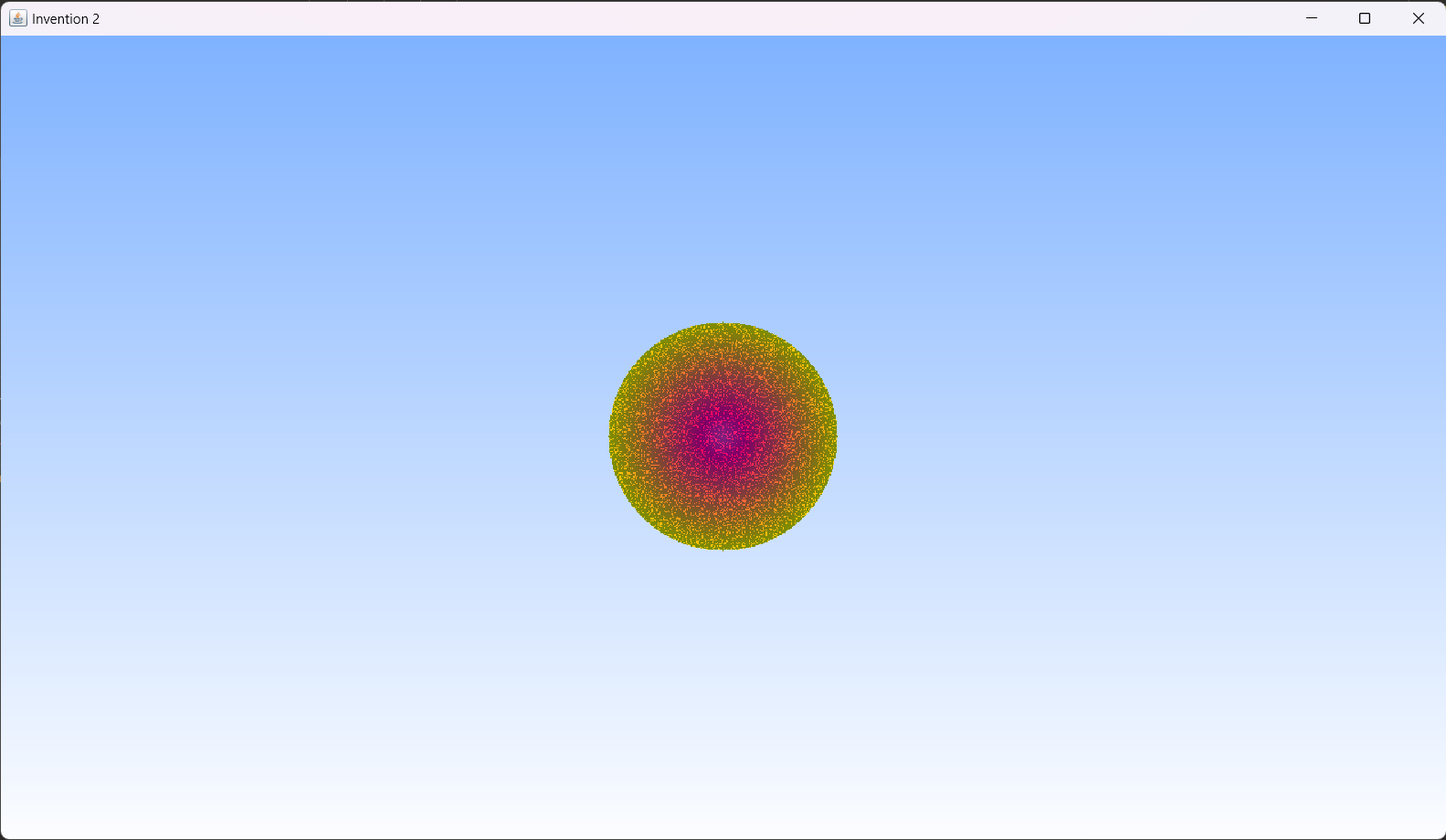
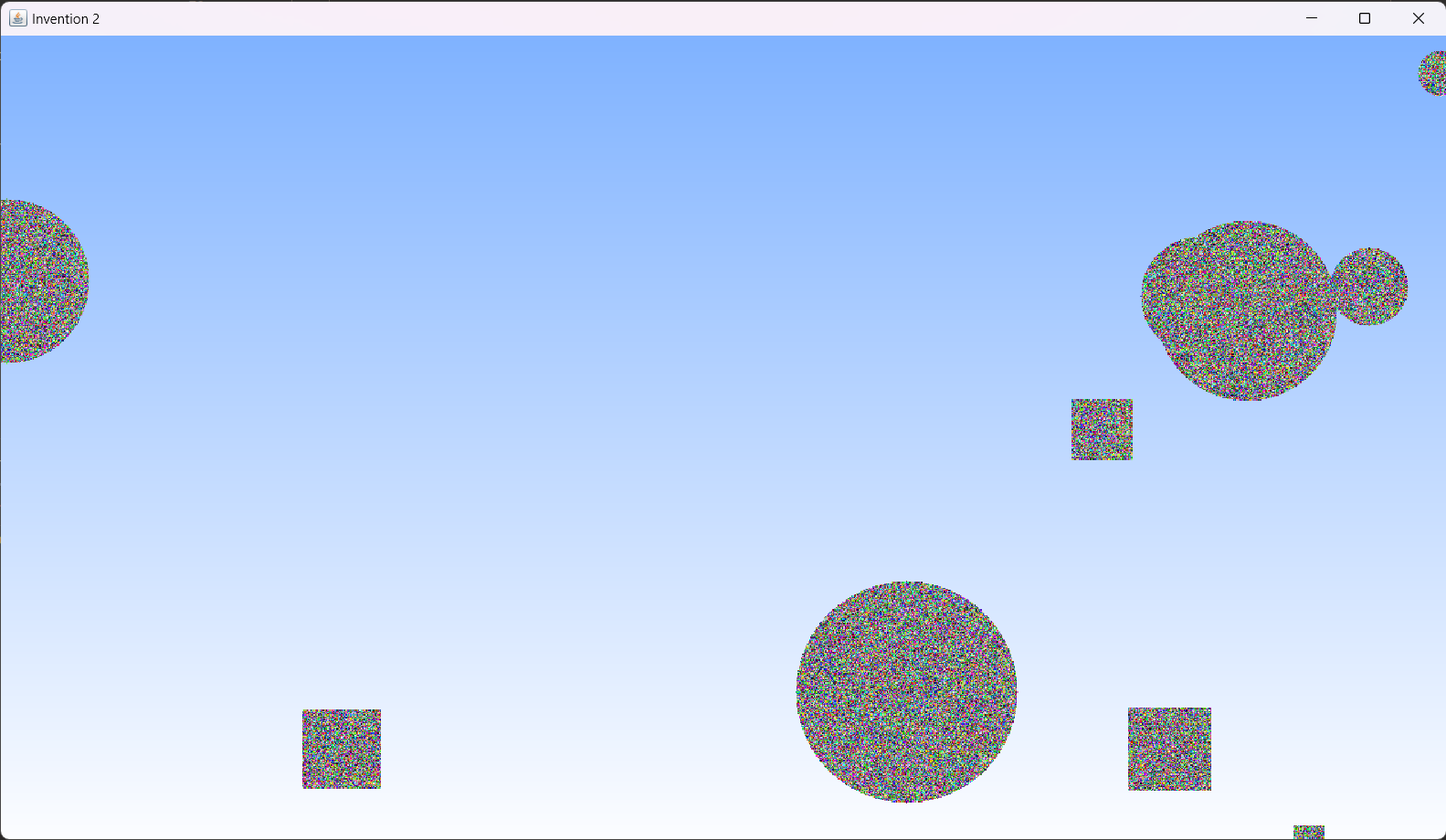
rewrite major portions of invention 2

diff --git a/npw/Invention2.java.html b/npw/Invention2.java.html
@@ -7,9 +7,9 @@
 .s1 { color: #fbf1c7;}
 .s2 { color: #ebdbb2;}
 .s3 { color: #f8e1aa;}
-.s4 { color: #b8bb26;}
-.s5 { color: #d3869b;}
-.s6 { color: #928374; font-style: italic;}
+.s4 { color: #d3869b;}
+.s5 { color: #928374; font-style: italic;}
+.s6 { color: #b8bb26;}
 .ln { color: #928374; font-weight: normal; font-style: normal; }
 </style>
 </head>
@@ -22,84 +22,128 @@ Invention2.java</font>
 <pre><a name="l1"><span class="ln">1    </span></a><span class="s0">package </span><span class="s1">npw</span><span class="s2">;</span>
 <a name="l2"><span class="ln">2    </span></a>
 <a name="l3"><span class="ln">3    </span></a><span class="s0">import </span><span class="s1">painter</span><span class="s2">.</span><span class="s1">SPainter</span><span class="s2">;</span>
-<a name="l4"><span class="ln">4    </span></a><span class="s0">import </span><span class="s1">shapes</span><span class="s2">.</span><span class="s1">SCircle</span><span class="s2">;</span>
-<a name="l5"><span class="ln">5    </span></a><span class="s0">import </span><span class="s1">shapes</span><span class="s2">.</span><span class="s1">SSquare</span><span class="s2">;</span>
-<a name="l6"><span class="ln">6    </span></a>
-<a name="l7"><span class="ln">7    </span></a><span class="s0">import </span><span class="s1">javax</span><span class="s2">.</span><span class="s1">swing</span><span class="s2">.*;</span>
-<a name="l8"><span class="ln">8    </span></a><span class="s0">import </span><span class="s1">java</span><span class="s2">.</span><span class="s1">awt</span><span class="s2">.*;</span>
-<a name="l9"><span class="ln">9    </span></a><span class="s0">import </span><span class="s1">java</span><span class="s2">.</span><span class="s1">awt</span><span class="s2">.</span><span class="s1">geom</span><span class="s2">.</span><span class="s1">Point2D</span><span class="s2">;</span>
-<a name="l10"><span class="ln">10   </span></a><span class="s0">import </span><span class="s1">java</span><span class="s2">.</span><span class="s1">util</span><span class="s2">.</span><span class="s1">Scanner</span><span class="s2">;</span>
-<a name="l11"><span class="ln">11   </span></a>
-<a name="l12"><span class="ln">12   </span></a><span class="s0">public class </span><span class="s1">Invention2 </span><span class="s3">{</span>
-<a name="l13"><span class="ln">13   </span></a>    <span class="s0">private void </span><span class="s1">paint</span><span class="s3">() {</span>
-<a name="l14"><span class="ln">14   </span></a>        <span class="s0">int </span><span class="s1">canvasWidth </span><span class="s2">= </span><span class="s1">getNumber</span><span class="s3">(</span><span class="s4">&quot;Canvas width&quot;</span><span class="s3">)</span><span class="s2">;</span>
-<a name="l15"><span class="ln">15   </span></a>        <span class="s0">int </span><span class="s1">canvasHeight </span><span class="s2">= </span><span class="s1">getNumber</span><span class="s3">(</span><span class="s4">&quot;Canvas height&quot;</span><span class="s3">)</span><span class="s2">;</span>
-<a name="l16"><span class="ln">16   </span></a>
-<a name="l17"><span class="ln">17   </span></a>        <span class="s1">SPainter p </span><span class="s2">= </span><span class="s0">new </span><span class="s1">SPainter</span><span class="s3">(</span><span class="s4">&quot;Invention 2&quot;</span><span class="s2">, </span><span class="s1">canvasWidth</span><span class="s2">, </span><span class="s1">canvasHeight</span><span class="s3">)</span><span class="s2">;</span>
-<a name="l18"><span class="ln">18   </span></a>        <span class="s1">SCircle invisibleCircle </span><span class="s2">= </span><span class="s0">new </span><span class="s1">SCircle</span><span class="s3">(</span><span class="s5">100</span><span class="s3">)</span><span class="s2">;</span>
-<a name="l19"><span class="ln">19   </span></a>        <span class="s1">SSquare sq </span><span class="s2">= </span><span class="s0">new </span><span class="s1">SSquare</span><span class="s3">(</span><span class="s5">1</span><span class="s3">)</span><span class="s2">;</span>
-<a name="l20"><span class="ln">20   </span></a>
-<a name="l21"><span class="ln">21   </span></a>        <span class="s0">int </span><span class="s1">i </span><span class="s2">= </span><span class="s5">0</span><span class="s2">; </span><span class="s6">// v</span>
-<a name="l22"><span class="ln">22   </span></a>        <span class="s0">int </span><span class="s1">j </span><span class="s2">= </span><span class="s5">0</span><span class="s2">; </span><span class="s6">// h</span>
-<a name="l23"><span class="ln">23   </span></a>        <span class="s0">while </span><span class="s3">(</span><span class="s1">i </span><span class="s2">&lt; </span><span class="s1">canvasHeight </span><span class="s2">+ </span><span class="s5">1</span><span class="s3">) {</span>
-<a name="l24"><span class="ln">24   </span></a>            <span class="s0">while </span><span class="s3">(</span><span class="s1">j </span><span class="s2">&lt; </span><span class="s1">canvasWidth </span><span class="s2">+ </span><span class="s5">1</span><span class="s3">) {</span>
-<a name="l25"><span class="ln">25   </span></a>                <span class="s1">Point2D</span><span class="s2">.</span><span class="s1">Double pt </span><span class="s2">= </span><span class="s0">new </span><span class="s1">Point2D</span><span class="s2">.</span><span class="s1">Double</span><span class="s3">(</span><span class="s1">j </span><span class="s2">+ </span><span class="s5">1</span><span class="s2">, </span><span class="s1">i </span><span class="s2">+ </span><span class="s5">1</span><span class="s3">)</span><span class="s2">;</span>
-<a name="l26"><span class="ln">26   </span></a>                <span class="s1">p</span><span class="s2">.</span><span class="s1">setPosition</span><span class="s3">(</span><span class="s1">pt</span><span class="s3">)</span><span class="s2">;</span>
-<a name="l27"><span class="ln">27   </span></a>                <span class="s1">p</span><span class="s2">.</span><span class="s1">setColor</span><span class="s3">(</span><span class="s1">blendedSkyColor</span><span class="s3">((</span><span class="s0">double</span><span class="s3">) (</span><span class="s1">canvasHeight </span><span class="s2">- </span><span class="s1">i</span><span class="s3">) </span><span class="s2">/ </span><span class="s1">canvasHeight</span><span class="s3">))</span><span class="s2">;</span>
-<a name="l28"><span class="ln">28   </span></a>                <span class="s1">p</span><span class="s2">.</span><span class="s1">paint</span><span class="s3">(</span><span class="s1">sq</span><span class="s3">)</span><span class="s2">;</span>
-<a name="l29"><span class="ln">29   </span></a>
-<a name="l30"><span class="ln">30   </span></a>                <span class="s0">if </span><span class="s3">(</span><span class="s1">p</span><span class="s2">.</span><span class="s1">center</span><span class="s3">()</span><span class="s2">.</span><span class="s1">distance</span><span class="s3">(</span><span class="s1">pt</span><span class="s3">) </span><span class="s2">&lt;= </span><span class="s1">invisibleCircle</span><span class="s2">.</span><span class="s1">radius</span><span class="s3">()) {</span>
-<a name="l31"><span class="ln">31   </span></a>                    <span class="s0">int </span><span class="s1">dist </span><span class="s2">= </span><span class="s3">(</span><span class="s0">int</span><span class="s3">) (</span><span class="s5">255 </span><span class="s2">* </span><span class="s3">((</span><span class="s1">invisibleCircle</span><span class="s2">.</span><span class="s1">radius</span><span class="s3">() </span><span class="s2">- </span><span class="s1">p</span><span class="s2">.</span><span class="s1">center</span><span class="s3">()</span><span class="s2">.</span><span class="s1">distance</span><span class="s3">(</span><span class="s1">pt</span><span class="s3">)) </span><span class="s2">* </span><span class="s5">0.01</span><span class="s3">))</span><span class="s2">;</span>
-<a name="l32"><span class="ln">32   </span></a>                    <span class="s1">Color col </span><span class="s2">= </span><span class="s0">new </span><span class="s1">Color</span><span class="s3">(</span><span class="s5">255</span><span class="s2">, </span><span class="s1">Math</span><span class="s2">.</span><span class="s1">abs</span><span class="s3">(</span><span class="s5">255 </span><span class="s2">- </span><span class="s3">(</span><span class="s1">dist </span><span class="s2">+ </span><span class="s5">50</span><span class="s3">))</span><span class="s2">, </span><span class="s1">dist </span><span class="s2">/ </span><span class="s5">2</span><span class="s3">)</span><span class="s2">;</span>
-<a name="l33"><span class="ln">33   </span></a>                    <span class="s1">p</span><span class="s2">.</span><span class="s1">setColor</span><span class="s3">(</span><span class="s1">col</span><span class="s3">)</span><span class="s2">;</span>
-<a name="l34"><span class="ln">34   </span></a>
-<a name="l35"><span class="ln">35   </span></a>                    <span class="s0">if </span><span class="s3">(</span><span class="s1">Math</span><span class="s2">.</span><span class="s1">random</span><span class="s3">() </span><span class="s2">&lt;= </span><span class="s5">0.8</span><span class="s3">) {</span>
-<a name="l36"><span class="ln">36   </span></a>                        <span class="s1">p</span><span class="s2">.</span><span class="s1">setColor</span><span class="s3">(</span><span class="s1">blendWithSky</span><span class="s3">(</span><span class="s1">Math</span><span class="s2">.</span><span class="s1">random</span><span class="s3">()</span><span class="s2">, </span><span class="s1">col</span><span class="s3">))</span><span class="s2">;</span>
-<a name="l37"><span class="ln">37   </span></a>                    <span class="s3">}</span>
-<a name="l38"><span class="ln">38   </span></a>
-<a name="l39"><span class="ln">39   </span></a>                    <span class="s1">p</span><span class="s2">.</span><span class="s1">paint</span><span class="s3">(</span><span class="s1">sq</span><span class="s3">)</span><span class="s2">;</span>
-<a name="l40"><span class="ln">40   </span></a>                <span class="s3">}</span>
-<a name="l41"><span class="ln">41   </span></a>
-<a name="l42"><span class="ln">42   </span></a>                <span class="s1">j</span><span class="s2">++;</span>
-<a name="l43"><span class="ln">43   </span></a>            <span class="s3">}</span>
-<a name="l44"><span class="ln">44   </span></a>            <span class="s1">i</span><span class="s2">++;</span>
-<a name="l45"><span class="ln">45   </span></a>            <span class="s1">j </span><span class="s2">= </span><span class="s5">0</span><span class="s2">;</span>
-<a name="l46"><span class="ln">46   </span></a>        <span class="s3">}</span>
-<a name="l47"><span class="ln">47   </span></a>    <span class="s3">}</span>
-<a name="l48"><span class="ln">48   </span></a>
-<a name="l49"><span class="ln">49   </span></a>    <span class="s0">private </span><span class="s1">Color blendWithSky</span><span class="s3">(</span><span class="s0">double </span><span class="s1">t</span><span class="s2">, </span><span class="s1">Color c</span><span class="s3">) {</span>
-<a name="l50"><span class="ln">50   </span></a>        <span class="s6">// c &lt;- (0.5, 0.7, 1.0)</span>
-<a name="l51"><span class="ln">51   </span></a>        <span class="s0">double </span><span class="s1">r </span><span class="s2">= </span><span class="s1">c</span><span class="s2">.</span><span class="s1">getRed</span><span class="s3">() </span><span class="s2">/ </span><span class="s5">255.0</span><span class="s2">, </span><span class="s1">g </span><span class="s2">= </span><span class="s1">c</span><span class="s2">.</span><span class="s1">getGreen</span><span class="s3">() </span><span class="s2">/ </span><span class="s5">255.0</span><span class="s2">, </span><span class="s1">b </span><span class="s2">= </span><span class="s1">c</span><span class="s2">.</span><span class="s1">getBlue</span><span class="s3">() </span><span class="s2">/ </span><span class="s5">255.0</span><span class="s2">;</span>
-<a name="l52"><span class="ln">52   </span></a>        <span class="s0">double </span><span class="s1">blendedR </span><span class="s2">= </span><span class="s1">r </span><span class="s2">* </span><span class="s5">0.5</span><span class="s2">,</span>
-<a name="l53"><span class="ln">53   </span></a>                <span class="s1">blendedG </span><span class="s2">= </span><span class="s1">g </span><span class="s2">* </span><span class="s5">0.7</span><span class="s2">,</span>
-<a name="l54"><span class="ln">54   </span></a>                <span class="s1">blendedB </span><span class="s2">= </span><span class="s1">b </span><span class="s2">* </span><span class="s5">1.0</span><span class="s2">;</span>
-<a name="l55"><span class="ln">55   </span></a>
-<a name="l56"><span class="ln">56   </span></a>        <span class="s0">return new </span><span class="s1">Color</span><span class="s3">((</span><span class="s0">int</span><span class="s3">)</span><span class="s1">Math</span><span class="s2">.</span><span class="s1">floor</span><span class="s3">(</span><span class="s1">blendedR </span><span class="s2">* </span><span class="s5">255</span><span class="s3">)</span><span class="s2">, </span><span class="s3">(</span><span class="s0">int</span><span class="s3">)</span><span class="s1">Math</span><span class="s2">.</span><span class="s1">floor</span><span class="s3">(</span><span class="s1">blendedG </span><span class="s2">* </span><span class="s5">255</span><span class="s3">)</span><span class="s2">, </span><span class="s3">(</span><span class="s0">int</span><span class="s3">)</span><span class="s1">Math</span><span class="s2">.</span><span class="s1">floor</span><span class="s3">(</span><span class="s1">blendedB </span><span class="s2">* </span><span class="s5">255</span><span class="s3">))</span><span class="s2">;</span>
-<a name="l57"><span class="ln">57   </span></a>    <span class="s3">}</span>
-<a name="l58"><span class="ln">58   </span></a>
-<a name="l59"><span class="ln">59   </span></a>    <span class="s0">private </span><span class="s1">Color blendedSkyColor</span><span class="s3">(</span><span class="s0">double </span><span class="s1">t</span><span class="s3">) {</span>
-<a name="l60"><span class="ln">60   </span></a>        <span class="s6">// (1.0, 1.0, 1.0) &lt;- (0.5, 0.7, 1.0)</span>
-<a name="l61"><span class="ln">61   </span></a>        <span class="s0">double </span><span class="s1">blendedR </span><span class="s2">= </span><span class="s3">(</span><span class="s5">1.0 </span><span class="s2">- </span><span class="s1">t</span><span class="s3">) </span><span class="s2">+ </span><span class="s1">t </span><span class="s2">* </span><span class="s5">0.5</span><span class="s2">,</span>
-<a name="l62"><span class="ln">62   </span></a>                <span class="s1">blendedG </span><span class="s2">= </span><span class="s3">(</span><span class="s5">1.0 </span><span class="s2">- </span><span class="s1">t</span><span class="s3">) </span><span class="s2">+ </span><span class="s1">t </span><span class="s2">* </span><span class="s5">0.7</span><span class="s2">,</span>
-<a name="l63"><span class="ln">63   </span></a>                <span class="s1">blendedB </span><span class="s2">= </span><span class="s3">(</span><span class="s5">1.0 </span><span class="s2">- </span><span class="s1">t</span><span class="s3">) </span><span class="s2">+ </span><span class="s1">t</span><span class="s2">;</span>
-<a name="l64"><span class="ln">64   </span></a>
-<a name="l65"><span class="ln">65   </span></a>        <span class="s0">return new </span><span class="s1">Color</span><span class="s3">((</span><span class="s0">int</span><span class="s3">)</span><span class="s1">Math</span><span class="s2">.</span><span class="s1">floor</span><span class="s3">(</span><span class="s1">blendedR </span><span class="s2">* </span><span class="s5">255</span><span class="s3">)</span><span class="s2">, </span><span class="s3">(</span><span class="s0">int</span><span class="s3">)</span><span class="s1">Math</span><span class="s2">.</span><span class="s1">floor</span><span class="s3">(</span><span class="s1">blendedG </span><span class="s2">* </span><span class="s5">255</span><span class="s3">)</span><span class="s2">, </span><span class="s3">(</span><span class="s0">int</span><span class="s3">)</span><span class="s1">Math</span><span class="s2">.</span><span class="s1">floor</span><span class="s3">(</span><span class="s1">blendedB </span><span class="s2">* </span><span class="s5">255</span><span class="s3">))</span><span class="s2">;</span>
-<a name="l66"><span class="ln">66   </span></a>    <span class="s3">}</span>
-<a name="l67"><span class="ln">67   </span></a>
-<a name="l68"><span class="ln">68   </span></a>    <span class="s0">private static int </span><span class="s1">getNumber</span><span class="s3">(</span><span class="s1">String prompt</span><span class="s3">) {</span>
-<a name="l69"><span class="ln">69   </span></a>        <span class="s1">String nss </span><span class="s2">= </span><span class="s1">JOptionPane</span><span class="s2">.</span><span class="s1">showInputDialog</span><span class="s3">(</span><span class="s0">null</span><span class="s2">, </span><span class="s1">prompt </span><span class="s2">+ </span><span class="s4">&quot;: &quot;</span><span class="s3">)</span><span class="s2">;</span>
-<a name="l70"><span class="ln">70   </span></a>        <span class="s1">Scanner sc </span><span class="s2">= </span><span class="s0">new </span><span class="s1">Scanner</span><span class="s3">(</span><span class="s1">nss</span><span class="s3">)</span><span class="s2">;</span>
-<a name="l71"><span class="ln">71   </span></a>        <span class="s0">return </span><span class="s1">sc</span><span class="s2">.</span><span class="s1">nextInt</span><span class="s3">()</span><span class="s2">;</span>
-<a name="l72"><span class="ln">72   </span></a>    <span class="s3">}</span>
-<a name="l73"><span class="ln">73   </span></a>
-<a name="l74"><span class="ln">74   </span></a>    <span class="s0">public </span><span class="s1">Invention2</span><span class="s3">() {</span>
-<a name="l75"><span class="ln">75   </span></a>        <span class="s1">paint</span><span class="s3">()</span><span class="s2">;</span>
-<a name="l76"><span class="ln">76   </span></a>    <span class="s3">}</span>
-<a name="l77"><span class="ln">77   </span></a>
-<a name="l78"><span class="ln">78   </span></a>    <span class="s0">public static void </span><span class="s1">main</span><span class="s3">(</span><span class="s1">String</span><span class="s3">[] </span><span class="s1">args</span><span class="s3">) {</span>
-<a name="l79"><span class="ln">79   </span></a>        <span class="s1">SwingUtilities</span><span class="s2">.</span><span class="s1">invokeLater</span><span class="s3">(</span><span class="s1">Invention2::</span><span class="s0">new</span><span class="s3">)</span><span class="s2">;</span>
-<a name="l80"><span class="ln">80   </span></a>    <span class="s3">}</span>
-<a name="l81"><span class="ln">81   </span></a><span class="s3">}</span>
-<a name="l82"><span class="ln">82   </span></a></pre>
+<a name="l4"><span class="ln">4    </span></a><span class="s0">import </span><span class="s1">shapes</span><span class="s2">.</span><span class="s1">SRectangle</span><span class="s2">;</span>
+<a name="l5"><span class="ln">5    </span></a>
+<a name="l6"><span class="ln">6    </span></a><span class="s0">import </span><span class="s1">javax</span><span class="s2">.</span><span class="s1">swing</span><span class="s2">.*;</span>
+<a name="l7"><span class="ln">7    </span></a><span class="s0">import </span><span class="s1">java</span><span class="s2">.</span><span class="s1">awt</span><span class="s2">.*;</span>
+<a name="l8"><span class="ln">8    </span></a><span class="s0">import </span><span class="s1">java</span><span class="s2">.</span><span class="s1">awt</span><span class="s2">.</span><span class="s1">geom</span><span class="s2">.</span><span class="s1">Point2D</span><span class="s2">;</span>
+<a name="l9"><span class="ln">9    </span></a><span class="s0">import </span><span class="s1">java</span><span class="s2">.</span><span class="s1">util</span><span class="s2">.</span><span class="s1">Scanner</span><span class="s2">;</span>
+<a name="l10"><span class="ln">10   </span></a>
+<a name="l11"><span class="ln">11   </span></a><span class="s0">enum </span><span class="s1">ShapeType </span><span class="s3">{</span>
+<a name="l12"><span class="ln">12   </span></a>    <span class="s1">Rectangle</span><span class="s2">,</span>
+<a name="l13"><span class="ln">13   </span></a>    <span class="s1">Circle</span><span class="s2">,</span>
+<a name="l14"><span class="ln">14   </span></a><span class="s3">}</span>
+<a name="l15"><span class="ln">15   </span></a>
+<a name="l16"><span class="ln">16   </span></a><span class="s0">class </span><span class="s1">InventionShape </span><span class="s3">{</span>
+<a name="l17"><span class="ln">17   </span></a>    <span class="s0">private final </span><span class="s1">ShapeType shapeType</span><span class="s2">;</span>
+<a name="l18"><span class="ln">18   </span></a>    <span class="s0">private final double </span><span class="s1">x</span><span class="s2">;</span>
+<a name="l19"><span class="ln">19   </span></a>    <span class="s0">private final double </span><span class="s1">y</span><span class="s2">;</span>
+<a name="l20"><span class="ln">20   </span></a>    <span class="s0">private final double </span><span class="s1">px</span><span class="s2">;</span>
+<a name="l21"><span class="ln">21   </span></a>    <span class="s0">private final double </span><span class="s1">py</span><span class="s2">;</span>
+<a name="l22"><span class="ln">22   </span></a>
+<a name="l23"><span class="ln">23   </span></a>    <span class="s0">public </span><span class="s1">InventionShape</span><span class="s3">(</span><span class="s1">ShapeType shapeType</span><span class="s2">, </span><span class="s0">double </span><span class="s1">x</span><span class="s2">, </span><span class="s0">double </span><span class="s1">y</span><span class="s2">, </span><span class="s0">double </span><span class="s1">px</span><span class="s2">, </span><span class="s0">double </span><span class="s1">py</span><span class="s3">) {</span>
+<a name="l24"><span class="ln">24   </span></a>        <span class="s0">this</span><span class="s2">.</span><span class="s1">shapeType </span><span class="s2">= </span><span class="s1">shapeType</span><span class="s2">;</span>
+<a name="l25"><span class="ln">25   </span></a>        <span class="s0">this</span><span class="s2">.</span><span class="s1">x </span><span class="s2">= </span><span class="s1">x</span><span class="s2">;</span>
+<a name="l26"><span class="ln">26   </span></a>        <span class="s0">this</span><span class="s2">.</span><span class="s1">y </span><span class="s2">= </span><span class="s1">y</span><span class="s2">;</span>
+<a name="l27"><span class="ln">27   </span></a>        <span class="s0">this</span><span class="s2">.</span><span class="s1">px </span><span class="s2">= </span><span class="s1">px</span><span class="s2">;</span>
+<a name="l28"><span class="ln">28   </span></a>        <span class="s0">this</span><span class="s2">.</span><span class="s1">py </span><span class="s2">= </span><span class="s1">py</span><span class="s2">;</span>
+<a name="l29"><span class="ln">29   </span></a>    <span class="s3">}</span>
+<a name="l30"><span class="ln">30   </span></a>
+<a name="l31"><span class="ln">31   </span></a>    <span class="s0">public boolean </span><span class="s1">hitsShape</span><span class="s3">(</span><span class="s1">Point2D</span><span class="s2">.</span><span class="s1">Double pt</span><span class="s3">) {</span>
+<a name="l32"><span class="ln">32   </span></a>        <span class="s0">return switch </span><span class="s3">(</span><span class="s1">shapeType</span><span class="s3">) {</span>
+<a name="l33"><span class="ln">33   </span></a>            <span class="s0">case </span><span class="s1">Rectangle -&gt; hitInRectangle</span><span class="s3">(</span><span class="s1">pt</span><span class="s2">, </span><span class="s1">x</span><span class="s2">, </span><span class="s1">y</span><span class="s3">)</span><span class="s2">;</span>
+<a name="l34"><span class="ln">34   </span></a>            <span class="s0">case </span><span class="s1">Circle -&gt; hitInCircle</span><span class="s3">(</span><span class="s1">pt</span><span class="s2">, </span><span class="s1">x</span><span class="s3">)</span><span class="s2">;</span>
+<a name="l35"><span class="ln">35   </span></a>        <span class="s3">}</span><span class="s2">;</span>
+<a name="l36"><span class="ln">36   </span></a>    <span class="s3">}</span>
+<a name="l37"><span class="ln">37   </span></a>
+<a name="l38"><span class="ln">38   </span></a>    <span class="s0">private boolean </span><span class="s1">hitInRectangle</span><span class="s3">(</span><span class="s1">Point2D</span><span class="s2">.</span><span class="s1">Double pt</span><span class="s2">, </span><span class="s0">double </span><span class="s1">width</span><span class="s2">, </span><span class="s0">double </span><span class="s1">height</span><span class="s3">) {</span>
+<a name="l39"><span class="ln">39   </span></a>        <span class="s1">Point2D</span><span class="s2">.</span><span class="s1">Double Q </span><span class="s2">= </span><span class="s0">new </span><span class="s1">Point2D</span><span class="s2">.</span><span class="s1">Double</span><span class="s3">(</span><span class="s1">px </span><span class="s2">- </span><span class="s3">(</span><span class="s1">width </span><span class="s2">/ </span><span class="s4">2</span><span class="s3">)</span><span class="s2">, </span><span class="s1">py </span><span class="s2">- </span><span class="s3">(</span><span class="s1">height </span><span class="s2">/ </span><span class="s4">2</span><span class="s3">))</span><span class="s2">;</span>
+<a name="l40"><span class="ln">40   </span></a>        <span class="s1">Point2D</span><span class="s2">.</span><span class="s1">Double QU </span><span class="s2">= </span><span class="s0">new </span><span class="s1">Point2D</span><span class="s2">.</span><span class="s1">Double</span><span class="s3">(</span><span class="s1">Q</span><span class="s2">.</span><span class="s1">x </span><span class="s2">+ </span><span class="s1">width</span><span class="s2">, </span><span class="s1">Q</span><span class="s2">.</span><span class="s1">y</span><span class="s3">)</span><span class="s2">;</span>
+<a name="l41"><span class="ln">41   </span></a>        <span class="s1">Point2D</span><span class="s2">.</span><span class="s1">Double QV </span><span class="s2">= </span><span class="s0">new </span><span class="s1">Point2D</span><span class="s2">.</span><span class="s1">Double</span><span class="s3">(</span><span class="s1">Q</span><span class="s2">.</span><span class="s1">x</span><span class="s2">, </span><span class="s1">Q</span><span class="s2">.</span><span class="s1">y </span><span class="s2">+ </span><span class="s1">height</span><span class="s3">)</span><span class="s2">;</span>
+<a name="l42"><span class="ln">42   </span></a>
+<a name="l43"><span class="ln">43   </span></a>        <span class="s0">return </span><span class="s1">pointInRect</span><span class="s3">(</span><span class="s1">pt</span><span class="s2">, </span><span class="s1">Q</span><span class="s2">, </span><span class="s1">QU</span><span class="s2">, </span><span class="s1">QV</span><span class="s3">)</span><span class="s2">;</span>
+<a name="l44"><span class="ln">44   </span></a>    <span class="s3">}</span>
+<a name="l45"><span class="ln">45   </span></a>
+<a name="l46"><span class="ln">46   </span></a>    <span class="s0">private boolean </span><span class="s1">hitInCircle</span><span class="s3">(</span><span class="s1">Point2D</span><span class="s2">.</span><span class="s1">Double pt</span><span class="s2">, </span><span class="s0">double </span><span class="s1">radius</span><span class="s3">) {</span>
+<a name="l47"><span class="ln">47   </span></a>        <span class="s0">return </span><span class="s3">(</span><span class="s0">new </span><span class="s1">Point2D</span><span class="s2">.</span><span class="s1">Double</span><span class="s3">(</span><span class="s1">px</span><span class="s2">, </span><span class="s1">py</span><span class="s3">))</span><span class="s2">.</span><span class="s1">distance</span><span class="s3">(</span><span class="s1">pt</span><span class="s3">) </span><span class="s2">&lt;= </span><span class="s1">radius</span><span class="s2">;</span>
+<a name="l48"><span class="ln">48   </span></a>    <span class="s3">}</span>
+<a name="l49"><span class="ln">49   </span></a>
+<a name="l50"><span class="ln">50   </span></a>    <span class="s0">private boolean </span><span class="s1">pointInRect</span><span class="s3">(</span><span class="s1">Point2D</span><span class="s2">.</span><span class="s1">Double pt</span><span class="s2">, </span><span class="s1">Point2D</span><span class="s2">.</span><span class="s1">Double rectQ</span><span class="s2">, </span><span class="s1">Point2D</span><span class="s2">.</span><span class="s1">Double rectQU</span><span class="s2">, </span><span class="s1">Point2D</span><span class="s2">.</span><span class="s1">Double rectQV</span><span class="s3">) {</span>
+<a name="l51"><span class="ln">51   </span></a>        <span class="s5">// pt is inside rect if</span>
+<a name="l52"><span class="ln">52   </span></a>        <span class="s5">//</span>
+<a name="l53"><span class="ln">53   </span></a>        <span class="s5">// Q.x &lt;= pt.x &lt;= QU.x</span>
+<a name="l54"><span class="ln">54   </span></a>        <span class="s5">// Q.y &lt;= pt.y &lt;= QV.y</span>
+<a name="l55"><span class="ln">55   </span></a>        <span class="s5">//</span>
+<a name="l56"><span class="ln">56   </span></a>
+<a name="l57"><span class="ln">57   </span></a>        <span class="s0">return </span><span class="s3">((</span><span class="s1">rectQ</span><span class="s2">.</span><span class="s1">x </span><span class="s2">&lt;= </span><span class="s1">pt</span><span class="s2">.</span><span class="s1">x </span><span class="s2">&amp;&amp; </span><span class="s1">pt</span><span class="s2">.</span><span class="s1">x </span><span class="s2">&lt;= </span><span class="s1">rectQU</span><span class="s2">.</span><span class="s1">x</span><span class="s3">) </span><span class="s2">&amp;&amp;</span>
+<a name="l58"><span class="ln">58   </span></a>                <span class="s3">(</span><span class="s1">rectQ</span><span class="s2">.</span><span class="s1">y </span><span class="s2">&lt;= </span><span class="s1">pt</span><span class="s2">.</span><span class="s1">y </span><span class="s2">&amp;&amp; </span><span class="s1">pt</span><span class="s2">.</span><span class="s1">y </span><span class="s2">&lt;= </span><span class="s1">rectQV</span><span class="s2">.</span><span class="s1">y</span><span class="s3">))</span><span class="s2">;</span>
+<a name="l59"><span class="ln">59   </span></a>    <span class="s3">}</span>
+<a name="l60"><span class="ln">60   </span></a><span class="s3">}</span>
+<a name="l61"><span class="ln">61   </span></a>
+<a name="l62"><span class="ln">62   </span></a><span class="s0">public class </span><span class="s1">Invention2 </span><span class="s3">{</span>
+<a name="l63"><span class="ln">63   </span></a>    <span class="s0">private void </span><span class="s1">paint</span><span class="s3">() {</span>
+<a name="l64"><span class="ln">64   </span></a>        <span class="s0">int </span><span class="s1">canvasWidth </span><span class="s2">= </span><span class="s1">getNumber</span><span class="s3">(</span><span class="s6">&quot;Canvas width&quot;</span><span class="s3">)</span><span class="s2">;</span>
+<a name="l65"><span class="ln">65   </span></a>        <span class="s0">int </span><span class="s1">canvasHeight </span><span class="s2">= </span><span class="s1">getNumber</span><span class="s3">(</span><span class="s6">&quot;Canvas height&quot;</span><span class="s3">)</span><span class="s2">;</span>
+<a name="l66"><span class="ln">66   </span></a>
+<a name="l67"><span class="ln">67   </span></a>        <span class="s1">SPainter p </span><span class="s2">= </span><span class="s0">new </span><span class="s1">SPainter</span><span class="s3">(</span><span class="s6">&quot;Invention 2&quot;</span><span class="s2">, </span><span class="s1">canvasWidth</span><span class="s2">, </span><span class="s1">canvasHeight</span><span class="s3">)</span><span class="s2">;</span>
+<a name="l68"><span class="ln">68   </span></a>        <span class="s1">SRectangle pixel </span><span class="s2">= </span><span class="s0">new </span><span class="s1">SRectangle</span><span class="s3">(</span><span class="s4">1</span><span class="s2">, </span><span class="s4">1</span><span class="s3">)</span><span class="s2">;</span>
+<a name="l69"><span class="ln">69   </span></a>
+<a name="l70"><span class="ln">70   </span></a>        <span class="s0">int </span><span class="s1">numberOfShapes </span><span class="s2">= </span><span class="s4">10</span><span class="s2">;</span>
+<a name="l71"><span class="ln">71   </span></a>        <span class="s1">InventionShape</span><span class="s3">[] </span><span class="s1">shapes </span><span class="s2">= </span><span class="s0">new </span><span class="s1">InventionShape</span><span class="s3">[</span><span class="s1">numberOfShapes</span><span class="s3">]</span><span class="s2">;</span>
+<a name="l72"><span class="ln">72   </span></a>        <span class="s0">for </span><span class="s3">(</span><span class="s0">int </span><span class="s1">i </span><span class="s2">= </span><span class="s4">0</span><span class="s2">; </span><span class="s1">i </span><span class="s2">&lt; </span><span class="s1">numberOfShapes</span><span class="s2">; </span><span class="s1">i</span><span class="s2">++</span><span class="s3">) {</span>
+<a name="l73"><span class="ln">73   </span></a>            <span class="s0">int </span><span class="s1">shapeType </span><span class="s2">= </span><span class="s3">(</span><span class="s0">int</span><span class="s3">) </span><span class="s1">Math</span><span class="s2">.</span><span class="s1">floor</span><span class="s3">(</span><span class="s1">Math</span><span class="s2">.</span><span class="s1">random</span><span class="s3">() </span><span class="s2">* </span><span class="s4">2</span><span class="s3">)</span><span class="s2">;</span>
+<a name="l74"><span class="ln">74   </span></a>            <span class="s0">int </span><span class="s1">x </span><span class="s2">= </span><span class="s3">(</span><span class="s0">int</span><span class="s3">) </span><span class="s1">Math</span><span class="s2">.</span><span class="s1">floor</span><span class="s3">(</span><span class="s1">Math</span><span class="s2">.</span><span class="s1">random</span><span class="s3">() </span><span class="s2">* </span><span class="s1">canvasWidth</span><span class="s3">)</span><span class="s2">;</span>
+<a name="l75"><span class="ln">75   </span></a>            <span class="s0">int </span><span class="s1">y </span><span class="s2">= </span><span class="s3">(</span><span class="s0">int</span><span class="s3">) </span><span class="s1">Math</span><span class="s2">.</span><span class="s1">floor</span><span class="s3">(</span><span class="s1">Math</span><span class="s2">.</span><span class="s1">random</span><span class="s3">() </span><span class="s2">* </span><span class="s1">canvasHeight</span><span class="s3">)</span><span class="s2">;</span>
+<a name="l76"><span class="ln">76   </span></a>            <span class="s0">int </span><span class="s1">size </span><span class="s2">= </span><span class="s3">(</span><span class="s0">int</span><span class="s3">) </span><span class="s1">Math</span><span class="s2">.</span><span class="s1">floor</span><span class="s3">(</span><span class="s1">Math</span><span class="s2">.</span><span class="s1">random</span><span class="s3">() </span><span class="s2">* </span><span class="s4">100</span><span class="s3">) </span><span class="s2">+ </span><span class="s4">20</span><span class="s2">;</span>
+<a name="l77"><span class="ln">77   </span></a>            <span class="s1">shapes</span><span class="s3">[</span><span class="s1">i</span><span class="s3">] </span><span class="s2">= </span><span class="s0">new </span><span class="s1">InventionShape</span><span class="s3">(</span><span class="s1">ShapeType</span><span class="s2">.</span><span class="s1">values</span><span class="s3">()[</span><span class="s1">shapeType</span><span class="s3">]</span><span class="s2">, </span><span class="s1">size</span><span class="s2">, </span><span class="s1">size</span><span class="s2">, </span><span class="s1">x</span><span class="s2">, </span><span class="s1">y</span><span class="s3">)</span><span class="s2">;</span>
+<a name="l78"><span class="ln">78   </span></a>        <span class="s3">}</span>
+<a name="l79"><span class="ln">79   </span></a>
+<a name="l80"><span class="ln">80   </span></a>        <span class="s0">int </span><span class="s1">i </span><span class="s2">= </span><span class="s4">0</span><span class="s2">; </span><span class="s5">// v</span>
+<a name="l81"><span class="ln">81   </span></a>        <span class="s0">int </span><span class="s1">j </span><span class="s2">= </span><span class="s4">0</span><span class="s2">; </span><span class="s5">// h</span>
+<a name="l82"><span class="ln">82   </span></a>        <span class="s0">while </span><span class="s3">(</span><span class="s1">i </span><span class="s2">&lt; </span><span class="s1">canvasHeight </span><span class="s2">+ </span><span class="s4">1</span><span class="s3">) {</span>
+<a name="l83"><span class="ln">83   </span></a>            <span class="s0">while </span><span class="s3">(</span><span class="s1">j </span><span class="s2">&lt; </span><span class="s1">canvasWidth </span><span class="s2">+ </span><span class="s4">1</span><span class="s3">) {</span>
+<a name="l84"><span class="ln">84   </span></a>                <span class="s1">Point2D</span><span class="s2">.</span><span class="s1">Double pt </span><span class="s2">= </span><span class="s0">new </span><span class="s1">Point2D</span><span class="s2">.</span><span class="s1">Double</span><span class="s3">(</span><span class="s1">j </span><span class="s2">+ </span><span class="s4">1</span><span class="s2">, </span><span class="s1">i </span><span class="s2">+ </span><span class="s4">1</span><span class="s3">)</span><span class="s2">;</span>
+<a name="l85"><span class="ln">85   </span></a>                <span class="s1">p</span><span class="s2">.</span><span class="s1">setPosition</span><span class="s3">(</span><span class="s1">pt</span><span class="s3">)</span><span class="s2">;</span>
+<a name="l86"><span class="ln">86   </span></a>                <span class="s1">p</span><span class="s2">.</span><span class="s1">setColor</span><span class="s3">(</span><span class="s1">blendedSkyColor</span><span class="s3">((</span><span class="s0">double</span><span class="s3">) (</span><span class="s1">canvasHeight </span><span class="s2">- </span><span class="s1">i</span><span class="s3">) </span><span class="s2">/ </span><span class="s1">canvasHeight</span><span class="s3">))</span><span class="s2">;</span>
+<a name="l87"><span class="ln">87   </span></a>                <span class="s1">p</span><span class="s2">.</span><span class="s1">paint</span><span class="s3">(</span><span class="s1">pixel</span><span class="s3">)</span><span class="s2">;</span>
+<a name="l88"><span class="ln">88   </span></a>
+<a name="l89"><span class="ln">89   </span></a>                <span class="s0">for </span><span class="s3">(</span><span class="s1">InventionShape shape </span><span class="s2">: </span><span class="s1">shapes</span><span class="s3">) {</span>
+<a name="l90"><span class="ln">90   </span></a>                    <span class="s0">if </span><span class="s3">(</span><span class="s1">shape</span><span class="s2">.</span><span class="s1">hitsShape</span><span class="s3">(</span><span class="s1">pt</span><span class="s3">)) {</span>
+<a name="l91"><span class="ln">91   </span></a>                        <span class="s1">p</span><span class="s2">.</span><span class="s1">setRandomColor</span><span class="s3">()</span><span class="s2">;</span>
+<a name="l92"><span class="ln">92   </span></a>                        <span class="s1">p</span><span class="s2">.</span><span class="s1">paint</span><span class="s3">(</span><span class="s1">pixel</span><span class="s3">)</span><span class="s2">;</span>
+<a name="l93"><span class="ln">93   </span></a>                    <span class="s3">}</span>
+<a name="l94"><span class="ln">94   </span></a>                <span class="s3">}</span>
+<a name="l95"><span class="ln">95   </span></a>
+<a name="l96"><span class="ln">96   </span></a>                <span class="s1">j</span><span class="s2">++;</span>
+<a name="l97"><span class="ln">97   </span></a>            <span class="s3">}</span>
+<a name="l98"><span class="ln">98   </span></a>            <span class="s1">i</span><span class="s2">++;</span>
+<a name="l99"><span class="ln">99   </span></a>            <span class="s1">j </span><span class="s2">= </span><span class="s4">0</span><span class="s2">;</span>
+<a name="l100"><span class="ln">100  </span></a>        <span class="s3">}</span>
+<a name="l101"><span class="ln">101  </span></a>    <span class="s3">}</span>
+<a name="l102"><span class="ln">102  </span></a>
+<a name="l103"><span class="ln">103  </span></a>    <span class="s0">private </span><span class="s1">Color blendedSkyColor</span><span class="s3">(</span><span class="s0">double </span><span class="s1">t</span><span class="s3">) {</span>
+<a name="l104"><span class="ln">104  </span></a>        <span class="s5">// (1.0, 1.0, 1.0) &lt;- (0.5, 0.7, 1.0)</span>
+<a name="l105"><span class="ln">105  </span></a>        <span class="s0">double </span><span class="s1">blendedR </span><span class="s2">= </span><span class="s3">(</span><span class="s4">1.0 </span><span class="s2">- </span><span class="s1">t</span><span class="s3">) </span><span class="s2">+ </span><span class="s1">t </span><span class="s2">* </span><span class="s4">0.5</span><span class="s2">,</span>
+<a name="l106"><span class="ln">106  </span></a>                <span class="s1">blendedG </span><span class="s2">= </span><span class="s3">(</span><span class="s4">1.0 </span><span class="s2">- </span><span class="s1">t</span><span class="s3">) </span><span class="s2">+ </span><span class="s1">t </span><span class="s2">* </span><span class="s4">0.7</span><span class="s2">,</span>
+<a name="l107"><span class="ln">107  </span></a>                <span class="s1">blendedB </span><span class="s2">= </span><span class="s3">(</span><span class="s4">1.0 </span><span class="s2">- </span><span class="s1">t</span><span class="s3">) </span><span class="s2">+ </span><span class="s1">t</span><span class="s2">;</span>
+<a name="l108"><span class="ln">108  </span></a>
+<a name="l109"><span class="ln">109  </span></a>        <span class="s0">return new </span><span class="s1">Color</span><span class="s3">((</span><span class="s0">int</span><span class="s3">) </span><span class="s1">Math</span><span class="s2">.</span><span class="s1">floor</span><span class="s3">(</span><span class="s1">blendedR </span><span class="s2">* </span><span class="s4">255</span><span class="s3">)</span><span class="s2">, </span><span class="s3">(</span><span class="s0">int</span><span class="s3">) </span><span class="s1">Math</span><span class="s2">.</span><span class="s1">floor</span><span class="s3">(</span><span class="s1">blendedG </span><span class="s2">* </span><span class="s4">255</span><span class="s3">)</span><span class="s2">, </span><span class="s3">(</span><span class="s0">int</span><span class="s3">) </span><span class="s1">Math</span><span class="s2">.</span><span class="s1">floor</span><span class="s3">(</span><span class="s1">blendedB </span><span class="s2">* </span><span class="s4">255</span><span class="s3">))</span><span class="s2">;</span>
+<a name="l110"><span class="ln">110  </span></a>    <span class="s3">}</span>
+<a name="l111"><span class="ln">111  </span></a>
+<a name="l112"><span class="ln">112  </span></a>    <span class="s0">private static int </span><span class="s1">getNumber</span><span class="s3">(</span><span class="s1">String prompt</span><span class="s3">) {</span>
+<a name="l113"><span class="ln">113  </span></a>        <span class="s1">String nss </span><span class="s2">= </span><span class="s1">JOptionPane</span><span class="s2">.</span><span class="s1">showInputDialog</span><span class="s3">(</span><span class="s0">null</span><span class="s2">, </span><span class="s1">prompt </span><span class="s2">+ </span><span class="s6">&quot;: &quot;</span><span class="s3">)</span><span class="s2">;</span>
+<a name="l114"><span class="ln">114  </span></a>        <span class="s1">Scanner sc </span><span class="s2">= </span><span class="s0">new </span><span class="s1">Scanner</span><span class="s3">(</span><span class="s1">nss</span><span class="s3">)</span><span class="s2">;</span>
+<a name="l115"><span class="ln">115  </span></a>        <span class="s0">return </span><span class="s1">sc</span><span class="s2">.</span><span class="s1">nextInt</span><span class="s3">()</span><span class="s2">;</span>
+<a name="l116"><span class="ln">116  </span></a>    <span class="s3">}</span>
+<a name="l117"><span class="ln">117  </span></a>
+<a name="l118"><span class="ln">118  </span></a>    <span class="s0">public </span><span class="s1">Invention2</span><span class="s3">() {</span>
+<a name="l119"><span class="ln">119  </span></a>        <span class="s1">paint</span><span class="s3">()</span><span class="s2">;</span>
+<a name="l120"><span class="ln">120  </span></a>    <span class="s3">}</span>
+<a name="l121"><span class="ln">121  </span></a>
+<a name="l122"><span class="ln">122  </span></a>    <span class="s0">public static void </span><span class="s1">main</span><span class="s3">(</span><span class="s1">String</span><span class="s3">[] </span><span class="s1">args</span><span class="s3">) {</span>
+<a name="l123"><span class="ln">123  </span></a>        <span class="s1">SwingUtilities</span><span class="s2">.</span><span class="s1">invokeLater</span><span class="s3">(</span><span class="s1">Invention2::</span><span class="s0">new</span><span class="s3">)</span><span class="s2">;</span>
+<a name="l124"><span class="ln">124  </span></a>    <span class="s3">}</span>
+<a name="l125"><span class="ln">125  </span></a><span class="s3">}</span>
+<a name="l126"><span class="ln">126  </span></a></pre>
 </body>
 </html>
